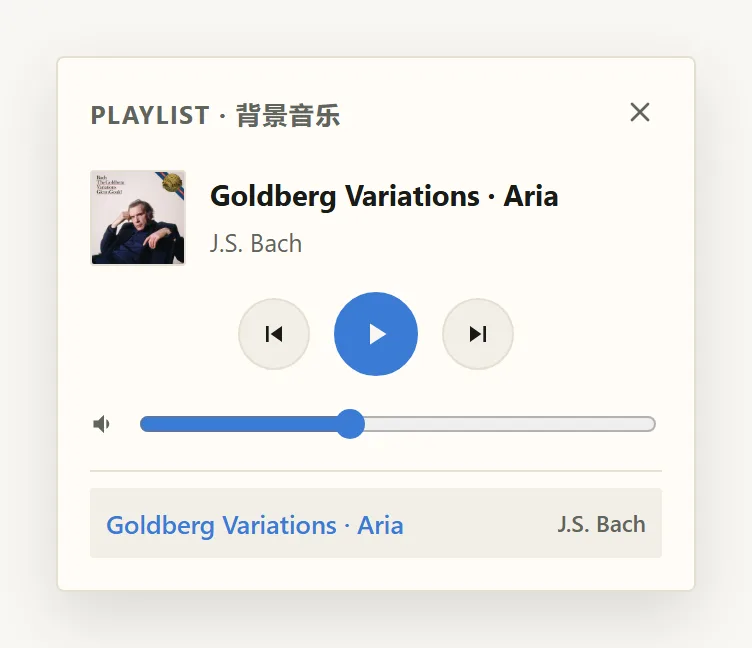
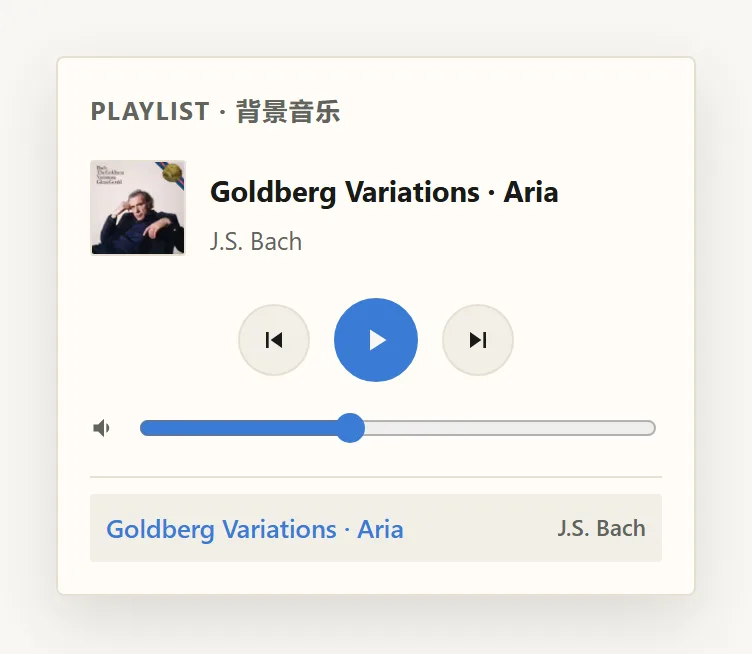
fix: remove BGM drawer close button

diff --git a/tests/interactions.test.ts b/tests/interactions.test.ts
@@ -407,7 +407,6 @@ describe("interactions：编辑模式下超链接与导航行为", () => {
       "<button class='bgm-toggle' aria-label='Toggle background music' aria-haspopup='dialog'></button>",
       "<div class='bgm-drawer' aria-label='BGM Playlist'>",
       "<p class='bgm-drawer-title'>Playlist · Background music</p>",
-      "<button class='bgm-drawer-close' aria-label='Close'></button>",
       "<p class='bgm-current-title'>English track</p>",
       "<p class='bgm-current-artist'>English Site</p>",
       "<button class='bgm-prev-btn' aria-label='Previous'></button>",
@@ -444,7 +443,6 @@ describe("interactions：编辑模式下超链接与导航行为", () => {
       "<button class='bgm-toggle' aria-label='切换背景音乐' aria-haspopup='dialog'></button>",
       "<div class='bgm-drawer' aria-label='BGM Playlist'>",
       "<p class='bgm-drawer-title'>播放列表 · 背景音乐</p>",
-      "<button class='bgm-drawer-close' aria-label='关闭'></button>",
       "<p class='bgm-current-title'>English track</p>",
       "<p class='bgm-current-artist'>中文站名</p>",
       "<button class='bgm-prev-btn' aria-label='上一首'></button>",
@@ -479,7 +477,6 @@ describe("interactions：编辑模式下超链接与导航行为", () => {
     expect(document.querySelector(".site-nav")?.getAttribute("aria-label")).toBe("Site navigation");
     expect(document.querySelector<HTMLButtonElement>(".bgm-toggle")?.getAttribute("aria-label")).toBe("Toggle background music");
     expect(document.querySelector(".bgm-drawer-title")?.textContent).toBe("Playlist · Background music");
-    expect(document.querySelector<HTMLButtonElement>(".bgm-drawer-close")?.getAttribute("aria-label")).toBe("Close");
     expect(document.querySelector<HTMLButtonElement>(".bgm-prev-btn")?.getAttribute("aria-label")).toBe("Previous");
     expect(document.querySelector<HTMLButtonElement>(".bgm-play-btn")?.getAttribute("aria-label")).toBe("Play/Pause");
     expect(document.querySelector<HTMLButtonElement>(".bgm-next-btn")?.getAttribute("aria-label")).toBe("Next");

diff --git a/src/styles/global.css b/src/styles/global.css
@@ -3798,25 +3798,6 @@ html.js .reveal.revealed {
   text-transform: uppercase;
   color: var(--text-muted);
 }
-.bgm-drawer-close {
-  border: none;
-  background: transparent;
-  color: var(--text-muted);
-  cursor: pointer;
-  padding: 0.2rem;
-  font-size: 1.1rem;
-  line-height: 1;
-  border-radius: var(--radius-sm);
-  transition: color 0.15s ease, background 0.15s ease, transform 0.15s ease;
-}
-.bgm-drawer-close:hover {
-  color: var(--text);
-  background: var(--bg-subtle);
-  transform: scale(1.1);
-}
-.bgm-drawer-close:active {
-  transform: scale(0.92);
-}
 .bgm-current-info {
   display: flex;
   align-items: center;

diff --git a/src/scripts/bgm.ts b/src/scripts/bgm.ts
@@ -232,10 +232,6 @@ export function initBgm(): void {
   if (drawer && !drawer.dataset.drawerInit) {
     drawer.dataset.drawerInit = '1';
 
-    drawer.querySelector('.bgm-drawer-close')?.addEventListener('click', () => {
-      setDrawerOpen(drawer, false);
-    });
-
     // 移动端遮罩：点击关闭抽屉（同搜索遮罩）
     document.querySelector('.bgm-backdrop')?.addEventListener('click', () => {
       setDrawerOpen(drawer, false);

diff --git a/src/scripts/interactions.ts b/src/scripts/interactions.ts
@@ -541,7 +541,6 @@ const GLOBAL_I18N_ATTRIBUTES: Array<[string, string]> = [
   ['.bgm-toggle', 'aria-haspopup'],
   ['audio.bgm-audio', 'data-artist-fallback'],
   ['.bgm-drawer', 'aria-label'],
-  ['.bgm-drawer-close', 'aria-label'],
   ['.bgm-prev-btn', 'aria-label'],
   ['.bgm-play-btn', 'aria-label'],
   ['.bgm-next-btn', 'aria-label'],

diff --git a/AGENTS.md b/AGENTS.md
@@ -29,6 +29,6 @@
 
 - **结构**：src/layouts/BaseLayout.astro 中 .bgm-toggle 按钮被 .bgm-switcher 包裹，.bgm-drawer 卡片与 .bgm-backdrop 遮罩均作为 .bgm-switcher 的子元素（卡片仅当 ctivePlaylist.showPanel 渲染，遮罩随 ctivePlaylist 渲染）。
 - **桌面端**（@media (hover: hover) and (min-width: 769px)）：鼠标悬浮 .bgm-toggle 即显隐卡片（纯 CSS，同 .lang-switcher:hover .lang-menu），.bgm-switcher::after 桥接间隙防 hover 断开；点按按钮仍为播放/暂停。无遮罩。
-- **移动端**（@media (max-width: 768px)）：点按 .bgm-toggle 切换 .bgm-drawer.open（底部抽屉上滑动画 + .bgm-backdrop 淡入遮罩，同搜索）；点遮罩 / 关闭按钮 / Esc 关闭。卡片显隐与遮罩均由 opacity/visibility/transform 过渡完成（开关动画）。
+- **移动端**（@media (max-width: 768px)）：点按 .bgm-toggle 切换 .bgm-drawer.open（底部抽屉上滑动画 + .bgm-backdrop 淡入遮罩，同搜索）；点遮罩 / Esc 关闭。卡片显隐与遮罩均由 opacity/visibility/transform 过渡完成（开关动画）。
 - **JS**：src/scripts/bgm.ts 用 setDrawerOpen(drawer, open) 切换 .open 与 ria-expanded；isMobile() 按 (max-width: 768px) 区分点击行为。原有 openDrawer/closeDrawer/hidden+animationend 方案已移除。
-- 卡片内按钮（播放/上一首/下一首/关闭）的 hover scale + active 缩放反馈见 .bgm-ctrl-btn / .bgm-drawer-close 规则。
+- 卡片内按钮（播放/上一首/下一首）的 hover scale + active 缩放反馈见 .bgm-ctrl-btn。
